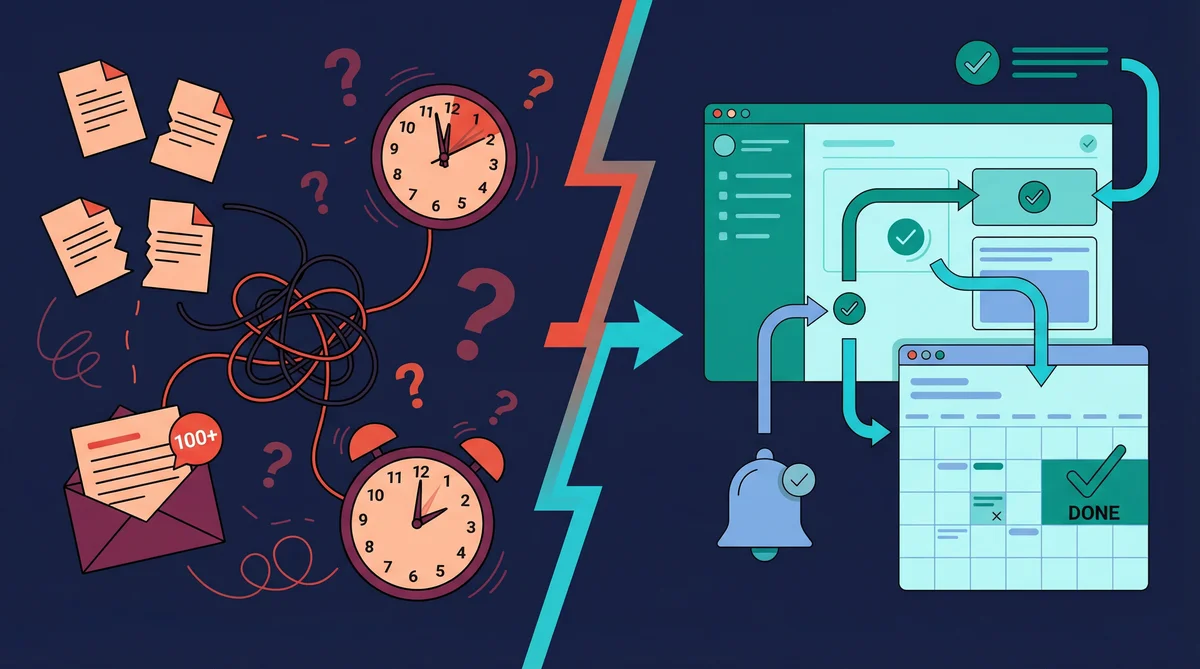
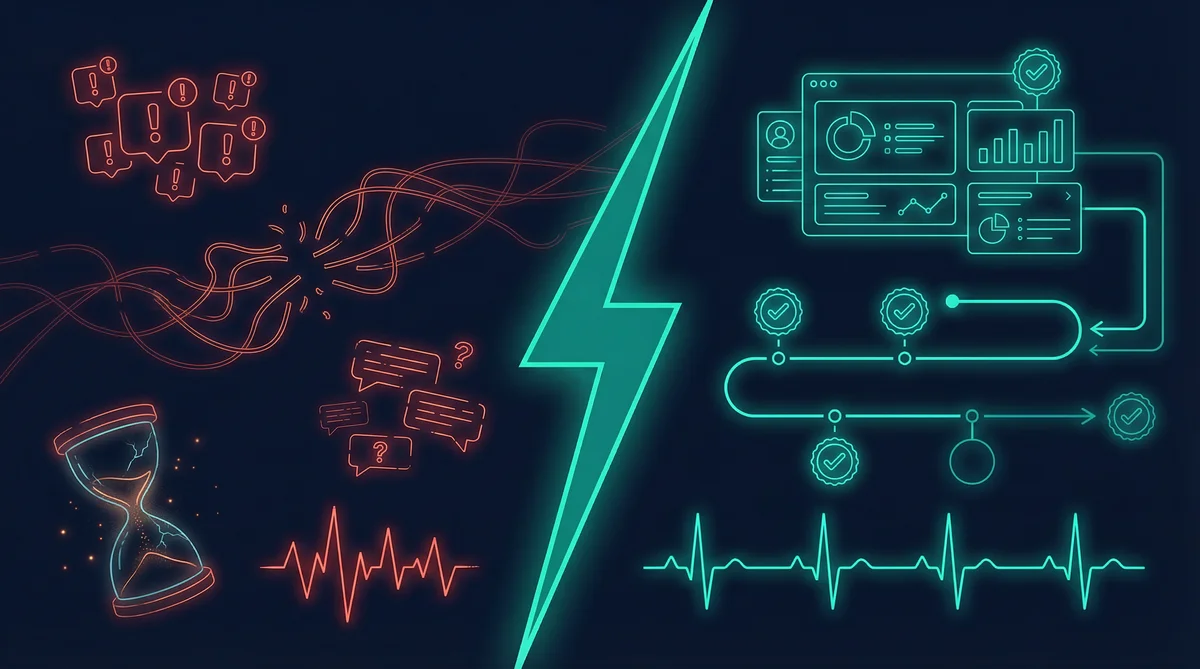
Upgrade visual assets: distinct blog thumbnails, dark-themed about/problems illustrations, CSS refinements for seamless dark background blending

diff --git a/index.html b/index.html
@@ -161,7 +161,7 @@
             width: 100%; 
             max-width: 500px; 
             border-radius: 20px;
-            box-shadow: 0 20px 60px rgba(0, 0, 0, 0.4), 0 0 40px rgba(0, 180, 216, 0.1);
+            filter: drop-shadow(0 10px 30px rgba(0, 0, 0, 0.3));
         }
         
         .hero h1 {
@@ -248,7 +248,9 @@
             margin: 0 auto 40px;
             display: block;
             border-radius: 16px;
-            box-shadow: 0 10px 40px rgba(0, 0, 0, 0.3);
+            /* Subtle blend with dark background */
+            mask-image: linear-gradient(to bottom, transparent 0%, black 5%, black 95%, transparent 100%);
+            -webkit-mask-image: linear-gradient(to bottom, transparent 0%, black 5%, black 95%, transparent 100%);
         }
 
         /* Mascot accent — smaller, decorative */
@@ -506,7 +508,7 @@
         .about-visual img { 
             width: 100%; 
             border-radius: 16px; 
-            box-shadow: 0 10px 40px rgba(0, 0, 0, 0.3);
+            filter: drop-shadow(0 5px 20px rgba(0, 180, 216, 0.15));
         }
 
         .about-signature {
@@ -544,8 +546,9 @@
 
         .blog-card-image {
             width: 100%;
-            height: 160px;
+            height: 180px;
             object-fit: cover;
+            object-position: center;
         }
 
         .blog-card-body {
